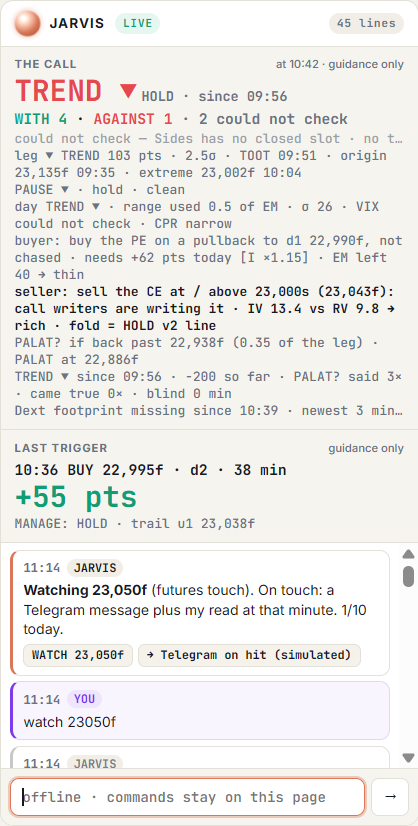
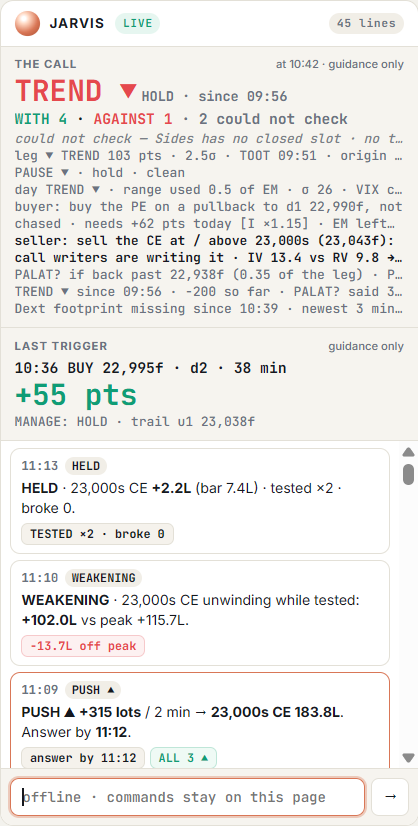
Jarvis v3 Task 3 fix: index from the api URL, no carried card, offline drawings re-sent, one clipped line per row
Review fixes in jarvis2.html: pageIdx() takes the index from the ?api= URL first (a live
SENSEX page asked NIFTY on its first polls); a failed / refused card poll drops the card so
the frame's call shows (P0: never a carried word); drawings made offline are re-sent to the
server once it is back, said in the feed; every card row is one clipped line with the whole
sentence in its title, buyer / seller up to two lines (her ruling). Minor: only fetch + parse
fall back to the local grammar; the jarvis_cmd state shapes only; "could not check — no card"
instead of a bare ?; the ? row darker + italic. Shots retaken.

diff --git a/docs/kahani/review/mockup/jarvis2.html b/docs/kahani/review/mockup/jarvis2.html
@@ -149,9 +149,10 @@ main{display:grid;grid-template-columns:minmax(0,1fr) 372px;gap:10px;padding:9px
 /* v3: the card's rows (renderCard); min-width 0 so a clipped row never widens the panel */
 #callc{min-width:0}
 .trade .big small{font:600 12px var(--mono);color:var(--mut);margin-left:4px}
+#callc .big,.trade .cnt,.trade .s.clip{white-space:nowrap;overflow:hidden;text-overflow:ellipsis}
 .trade .cnt{font:700 13px var(--mono);margin:1px 0 2px;cursor:help}
-.trade .s.pk{font-weight:700;color:var(--ink)} .trade .s.bad{color:var(--bad)} .trade .s.q{color:var(--q)}
-.trade .s.clip{white-space:nowrap;overflow:hidden;text-overflow:ellipsis}
+.trade .s.clip2{display:-webkit-box;-webkit-box-orient:vertical;-webkit-line-clamp:2;line-clamp:2;overflow:hidden}
+.trade .s.pk{font-weight:700;color:var(--ink)} .trade .s.bad{color:var(--bad)} .trade .s.q{color:#7a7f87;font-style:italic}
 .feed{overflow:auto;padding:6px 8px;display:grid;gap:5px;align-content:start;scroll-behavior:smooth}
 .row{padding:7px 9px;border-radius:9px;border:1px solid var(--line);background:#fff;cursor:pointer;animation:rise .3s both}
 .row:hover{border-color:var(--ai)}
@@ -389,38 +390,45 @@ if (LIVE) setInterval(() => fetchFrame(API).then(d => { if (d && d.mins && D) sw
 // v3 (Task 3): live, the top card is GET /api/jarvis/card (small, every 20 s) and the command box talks to /api/jarvis/cmd.
 // Either one missing (a server before v3, a saved file, a replay): the frame's call and the page's own grammar, as before,
 // and the box says so. ?card=<file> (test only): render that card, never poll it.
-const EP = p => { const u = new URL(API, location.href); return `${u.origin}${u.pathname.replace(/\/$/, "")}/${p}?idx=${(D && D.idx) || $("#pIdx").value}`; };
+// The index comes from the ?api= URL first: the frame (D) is not loaded when the first polls go out (review fix 1).
+const pageIdx = () => ((API && new URL(API, location.href).searchParams.get("idx")) || (D && D.idx) || $("#pIdx").value).toUpperCase();
+const EP = p => { const u = new URL(API, location.href); return `${u.origin}${u.pathname.replace(/\/$/, "")}/${p}?idx=${pageIdx()}`; };
 const PH = $("#cin").placeholder, CARDQ = QS.get("card");
 let CARD = null, CMD = false, cmdSeen = false;
-function pollCard() { fetchFrame(EP("card")).then(c => { if (c && c.ok) { CARD = c; if (D) renderBrain(); } }).catch(() => {}); }
-function setCmd(on) { CMD = on; $("#cin").placeholder = on ? PH : "offline · commands stay on this page"; }
-function pollCmd() {
-  fetchFrame(EP("cmd")).then(r => {
-    const st = r && (r.state || r);
-    if (!st || !(st.watches || st.lines || st.zones)) throw new Error("no state");
-    setCmd(true); cmdState(st);
-  }).catch(() => setCmd(false));
+function pollCard() {     // a failed or refused poll drops the card: the frame's call shows, never a carried word (P0)
+  fetchFrame(EP("card")).then(c => c && c.ok ? c : null, () => null).then(c => { CARD = c; if (D) renderBrain(); });
 }
-function cmdState(st) {   // the server's lines / zones / watches replace the page's own, so a reload keeps her drawings
-  const lv = x => +(x.level ?? x.lvl ?? x.k), tg = x => x.frame || x.tag, key = u => u.id ?? u.lvl + u.tag;
-  const was = new Set(watches.filter(u => u.hit).map(key));
-  userLines.splice(0, userLines.length, ...(st.lines || []).map(x => ({lvl: lv(x), tag: tg(x)})));
-  userZones.splice(0, userZones.length, ...(st.zones || []).map(x => {
-    const a = +(x.lo ?? x.a ?? x.low), b = +(x.hi ?? x.b ?? x.high); return {a: Math.min(a, b), b: Math.max(a, b), tag: tg(x)}; }));
-  watches.splice(0, watches.length, ...(st.watches || []).map(x => ({id: x.id, lvl: lv(x), tag: tg(x), set: x.set,
-    hit: x.hit && typeof x.hit === "object" ? x.hit.t : x.hit || null})));
-  if (cmdSeen && D) for (const u of watches) if (u.hit && !was.has(key(u)))   // a hit the server found since the last look
+function setCmd(on) { CMD = on; $("#cin").placeholder = on ? PH : "offline · commands stay on this page"; }
+const offlineDrawn = () => userLines.filter(u => u.id == null).map(u => `line ${u.lvl}${u.tag}`)   // the page's own, no id
+  .concat(userZones.filter(u => u.id == null).map(u => `zone ${u.a}-${u.b}${u.tag}`),
+    watches.filter(u => u.id == null && !u.hit).map(u => `watch ${u.lvl}${u.tag}`));
+function pollCmd() {
+  fetchFrame(EP("cmd")).then(r => r && r.ok && r.state ? r : Promise.reject(new Error("no state"))).then(r => {
+    const pend = CMD ? [] : offlineDrawn();
+    setCmd(true); cmdState(r.state);
+    if (pend.length) {      // drawn while offline: handed to the server now (one at a time), so a reload keeps them
+      chatAdd("JARVIS", `**back online** · sending ${pend.length} drawn offline: ${pend.join(" · ")}`, [], "q");
+      pend.reduce((q, t1) => q.then(() => postCmd(t1)), Promise.resolve());
+    }
+  }, () => setCmd(false));
+}
+function cmdState(st) {   // jarvis_cmd.Day.state: lines {id, level, frame, set}, zones {id, lo, hi, frame, set}, watches + hit
+  const was = new Set(watches.filter(u => u.hit).map(u => u.id));
+  userLines.splice(0, userLines.length, ...st.lines.map(x => ({id: x.id, lvl: x.level, tag: x.frame})));
+  userZones.splice(0, userZones.length, ...st.zones.map(x => ({id: x.id, a: x.lo, b: x.hi, tag: x.frame})));
+  watches.splice(0, watches.length, ...st.watches.map(x => ({id: x.id, lvl: x.level, tag: x.frame, set: x.set, hit: x.hit})));
+  if (cmdSeen && D) for (const u of watches) if (u.hit && !was.has(u.id))   // a hit the server found since the last look
     chatAdd("JARVIS", `**WATCH HIT · ${fmt(u.lvl)}${u.tag} at ${u.hit}**`, [{t: "→ server alert", c: "ok"}, {t: `watch set ${u.set}`}], "ok");
   cmdSeen = true;
 }
-function postCmd(s) {     // one line to the grammar the server owns; its reply + lines into the feed; offline -> the page's own
-  fetch(EP("cmd"), {method: "POST", headers: {"Content-Type": "application/json"}, body: JSON.stringify({idx: (D && D.idx) || $("#pIdx").value, text: s})})
-    .then(r => r.json().catch(() => null).then(j => { if (!j || (j.reply == null && !j.lines)) throw new Error((j && j.why) || `HTTP ${r.status}`); return j; }))
+function postCmd(s) {     // one line to the grammar the server owns; its reply + lines into the feed. Only a failed fetch / parse
+  // falls back to the page's own grammar, so a render error never re-runs locally a command the server already ran
+  return fetch(EP("cmd"), {method: "POST", headers: {"Content-Type": "application/json"}, body: JSON.stringify({idx: pageIdx(), text: s, src: "page"})})
+    .then(r => r.json().catch(() => null).then(j => j && (j.reply != null || j.lines) ? j : Promise.reject(new Error((j && j.why) || `HTTP ${r.status}`))))
     .then(j => {
       chatAdd("JARVIS", [j.reply].concat(j.lines || []).filter(Boolean).join("\n") || "—", [], j.kind === "refused" ? "bad" : j.ok === false ? "q" : null);
-      if (j.state) cmdState(j.state);
-    })
-    .catch(e => { setCmd(false); chatAdd("JARVIS", `**offline · commands stay on this page** (${e.message})`, [], "q"); runCmd(s); });
+      if (j.state && j.state.lines) cmdState(j.state);
+    }, e => { setCmd(false); chatAdd("JARVIS", `**offline · commands stay on this page** (${e.message})`, [], "q"); runCmd(s); });
 }
 setCmd(false);
 if (CARDQ) fetchFrame(CARDQ).then(c => { CARD = c; if (D) renderBrain(); }).catch(e => console.warn("?card=", e.message));
@@ -477,29 +485,33 @@ function renderBrain(i) {   // the brain's health and its one call: the frame's 
 function renderCard(c) {
   // v3: THE CALL, one row each in this order, an absent field skipped: the ACTION word (state · since), WITH n · AGAINST m
   // (the pieces on hover, the ? ones greyed with their reason), leg, pause, how much, day, buyer, seller (the pick bold),
-  // wrong-line, NO TRADE, self, missing (red), notes (grey). Every string verbatim (levels carry s / f); the page decides
+  // wrong-line, NO TRADE, self, missing (red), notes (grey). Every row ONE clipped line, the whole sentence in its title;
+  // buyer / seller up to two lines (her ruling, review fix 4). Every string verbatim (levels carry s / f); the page decides
   // nothing. P0 (30 Oct): CAN'T SEE is shown blind, never as a quiet NO TRADE; the old vote stays in the tooltip.
   const box = $("#callc"); box.hidden = !c; if (!c) return;
-  const lean = c.lean || (c.word === "UP" ? 1 : c.word === "DOWN" ? -1 : 0), blind = c.word === "CAN'T SEE";
+  const NC = "could not check — no card", lean = c.lean || (c.word === "UP" ? 1 : c.word === "DOWN" ? -1 : 0), blind = c.word === "CAN'T SEE";
   const sub = [c.state, c.since && "since " + c.since].filter(Boolean).join(" · ");
-  box.innerHTML = `<div class="k">THE CALL <i>at ${esc(c.at || "?")} · guidance only</i></div>`
-    + `<div class="big" style="color:${blind ? COL.dn : lean > 0 ? COL.up : lean < 0 ? COL.dn : COL.mut}">${esc(c.word || "?")}${sub ? `<small>${esc(sub)}</small>` : ""}</div>`;
+  box.innerHTML = `<div class="k">THE CALL <i>${c.at ? "at " + esc(c.at) : NC} · guidance only</i></div>`
+    + `<div class="big" style="color:${blind ? COL.dn : lean > 0 ? COL.up : lean < 0 ? COL.dn : COL.mut}">${esc(c.word || NC)}${sub ? `<small>${esc(sub)}</small>` : ""}</div>`;
+  box.lastChild.title = [c.word || NC, sub].filter(Boolean).join(" · ");
   box.style.opacity = blind ? 0.55 : 1;
-  const row = (cls, txt, tip) => { const el = document.createElement("div"); el.className = cls; el.textContent = txt; if (tip) el.title = tip; box.appendChild(el); return el; };
-  const line = (txt, cls) => { if (txt) row(cls ? "s " + cls : "s", txt); };
+  const row = (cls, txt, tip) => { const el = document.createElement("div"); el.className = cls; el.textContent = txt; el.title = tip || txt; box.appendChild(el); return el; };
+  const line = (txt, cls) => { if (txt) row("s " + (cls || "clip"), txt); };
   const n = c.count;
   if (n) {
     const P = n.pieces || [], q = P.filter(p => p.side === "?");
-    row("cnt", "", [`${n.N ?? "?"} read · ${n.unread ?? "?"} could not check`].concat(P.map(p =>
-      `${p.side === "with" ? "WITH" : p.side === "against" ? "AGAINST" : "?"} · ${p.text}`)).join("\n")).innerHTML =
-      `<span class="up">WITH ${esc(n.with ?? "?")}</span> · <span class="dn">AGAINST ${esc(n.against ?? "?")}</span>`
-      + (n.unread ? ` <span class="mut">· ${esc(n.unread)} could not check</span>` : "");
+    const head = [n.N != null && `${n.N} read`, n.unread != null && `${n.unread} could not check`].filter(Boolean).join(" · ");
+    row("cnt", "", [head].concat(P.map(p => `${p.side === "with" ? "WITH" : p.side === "against" ? "AGAINST" : "?"} · ${p.text}`))
+      .filter(Boolean).join("\n") || NC).innerHTML = n.with == null || n.against == null ? `<span class="mut">WITH · AGAINST ${NC}</span>`
+      : `<span class="up">WITH ${esc(n.with)}</span> · <span class="dn">AGAINST ${esc(n.against)}</span>`
+        + (n.unread ? ` <span class="mut">· ${esc(n.unread)} could not check</span>` : "");
     if (q.length) row("s q clip", q.map(p => p.text).join(" · "), q.map(p => p.text).join("\n"));
   }
   const ex = c.expression || {buyer: c.buyer, seller: c.seller}, nt = c.no_trade;
   line(c.leg); line(c.pause && c.pause.line); line(c.how_much && c.how_much.line);
   line(/^\d{4}-\d\d-\d\d$/.test(c.day) ? null : c.day);   // a call's DAY line; the card's `day` is its date
-  line(ex.buyer && "buyer: " + ex.buyer, ex.pick === "buyer" && "pk"); line(ex.seller && "seller: " + ex.seller, ex.pick === "seller" && "pk");
+  line(ex.buyer && "buyer: " + ex.buyer, ex.pick === "buyer" ? "clip2 pk" : "clip2");
+  line(ex.seller && "seller: " + ex.seller, ex.pick === "seller" ? "clip2 pk" : "clip2");
   line(c.wrong_line);
   line(!nt ? null : typeof nt === "string" ? nt
     : ["NO TRADE" + (nt.reason ? ": " + nt.reason : ""), nt.since && "since " + nt.since, nt.ends && "ends " + nt.ends].filter(Boolean).join(" · "));
